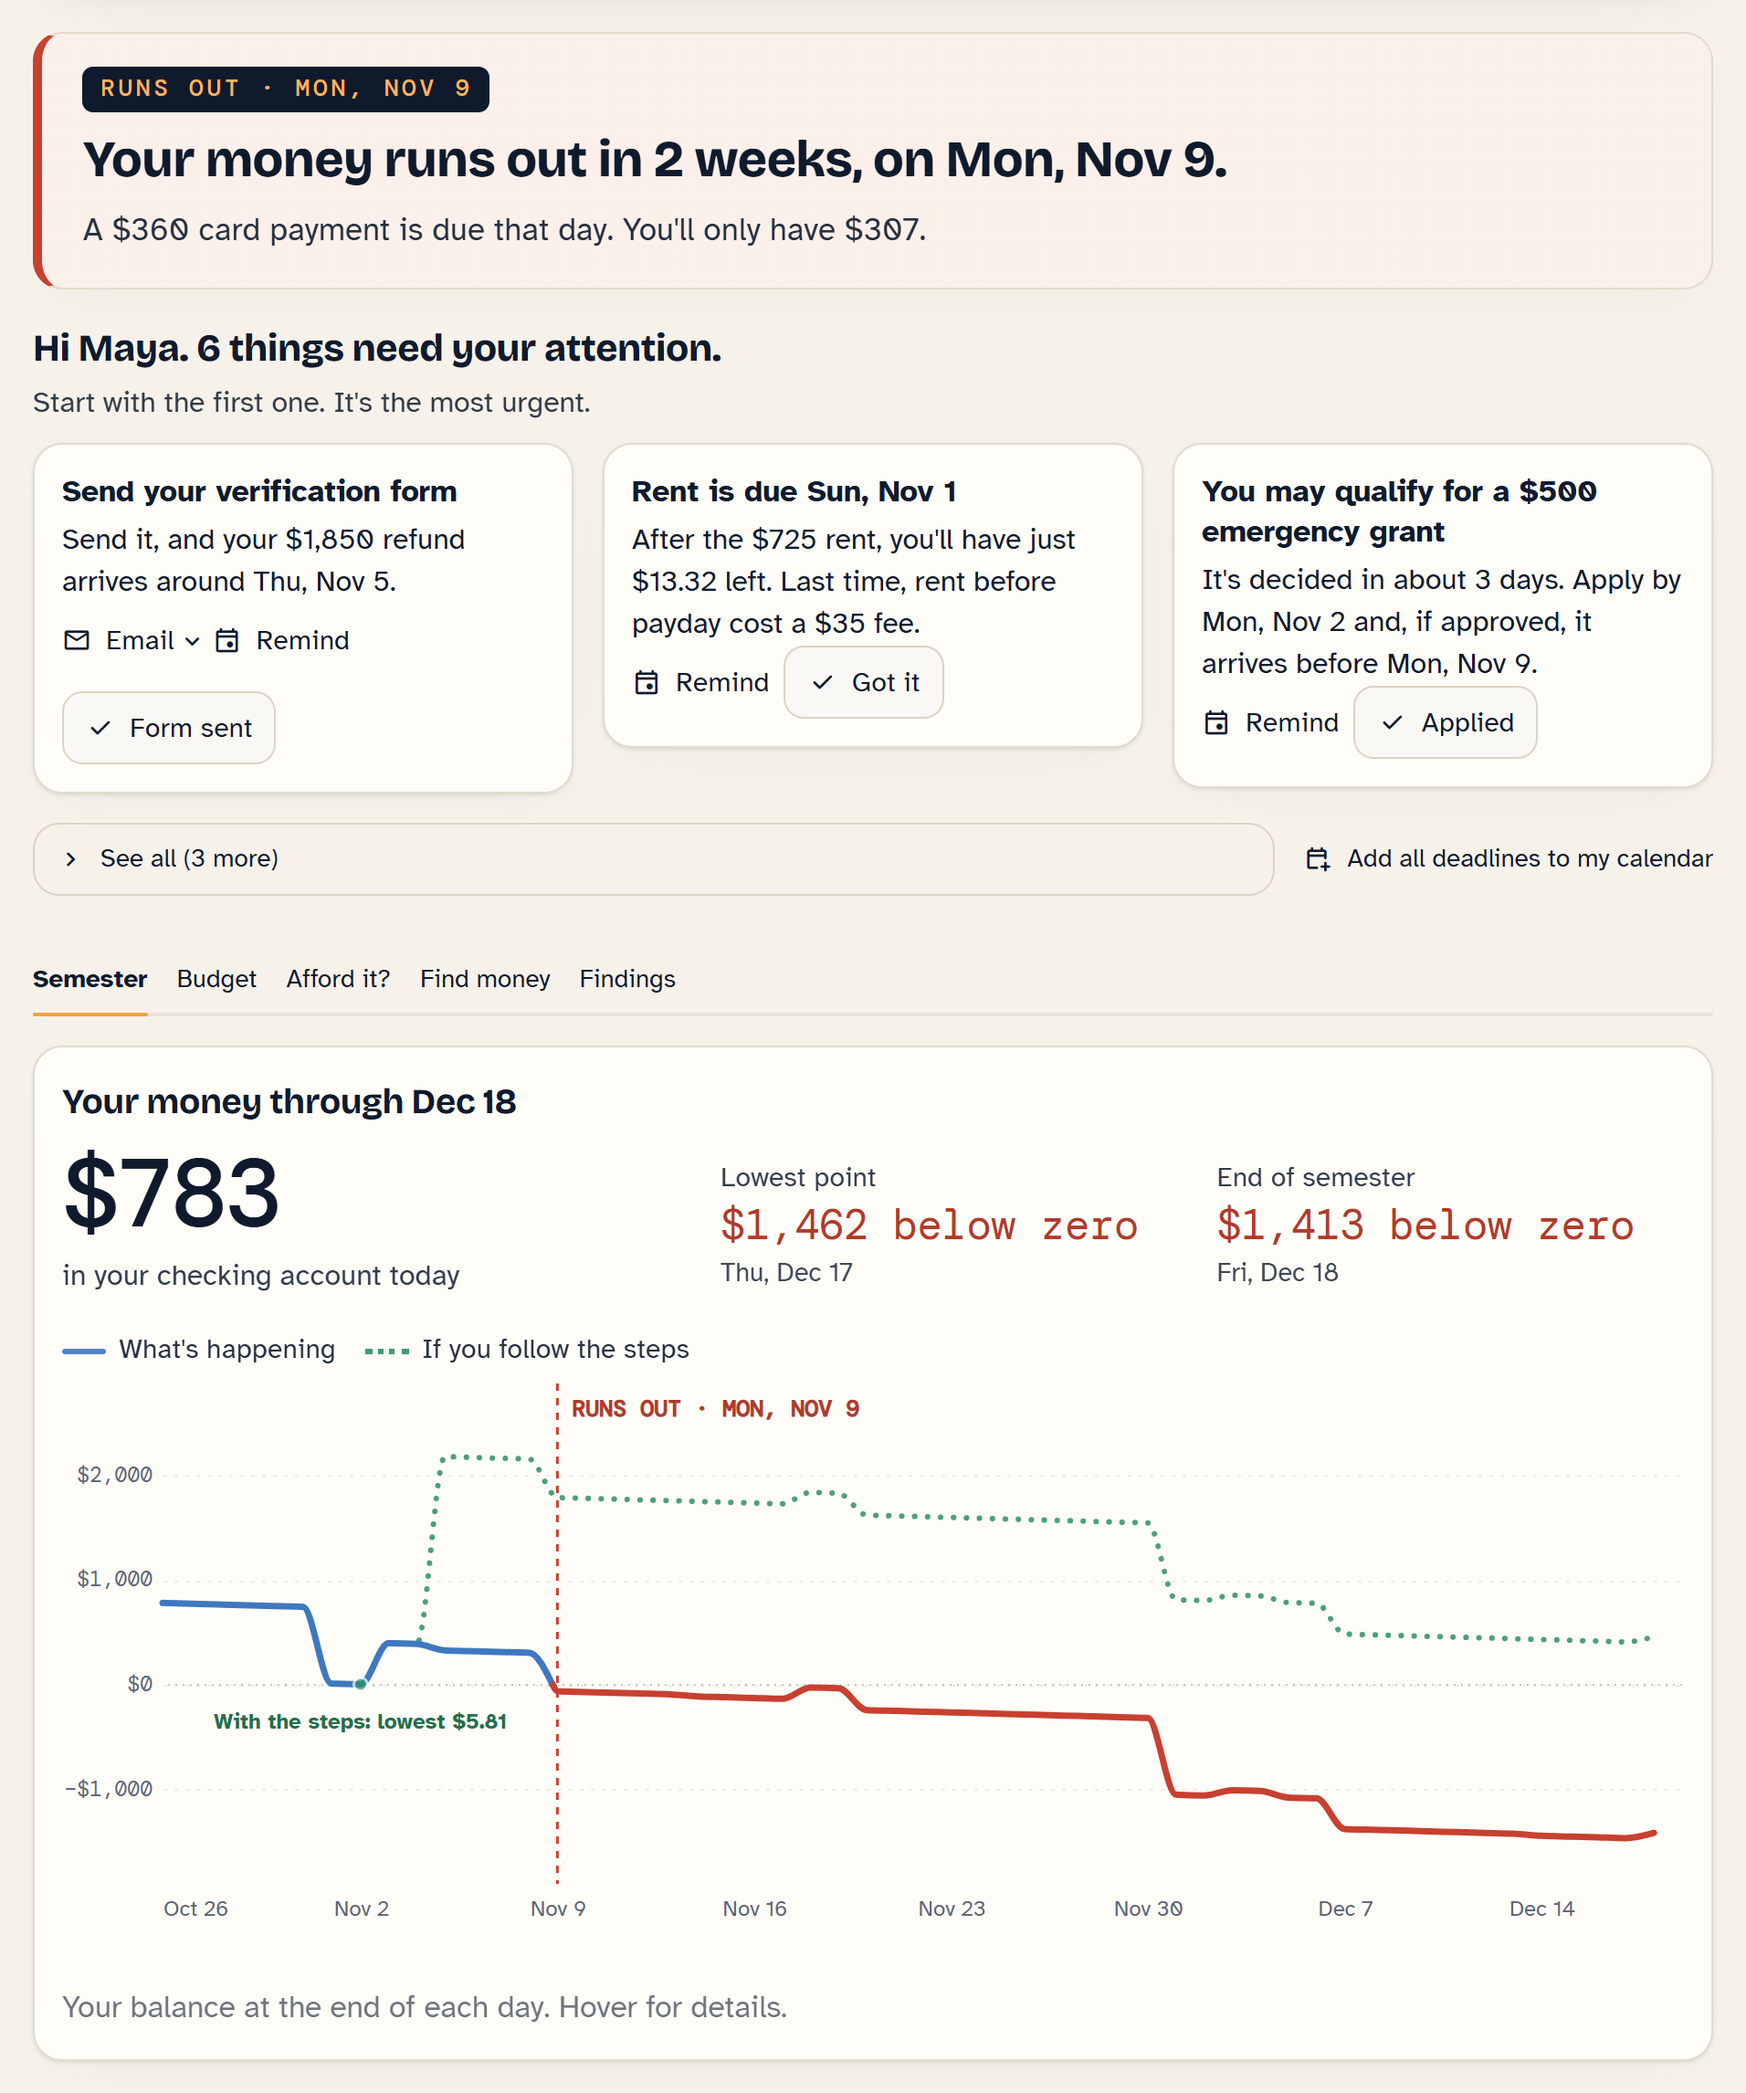
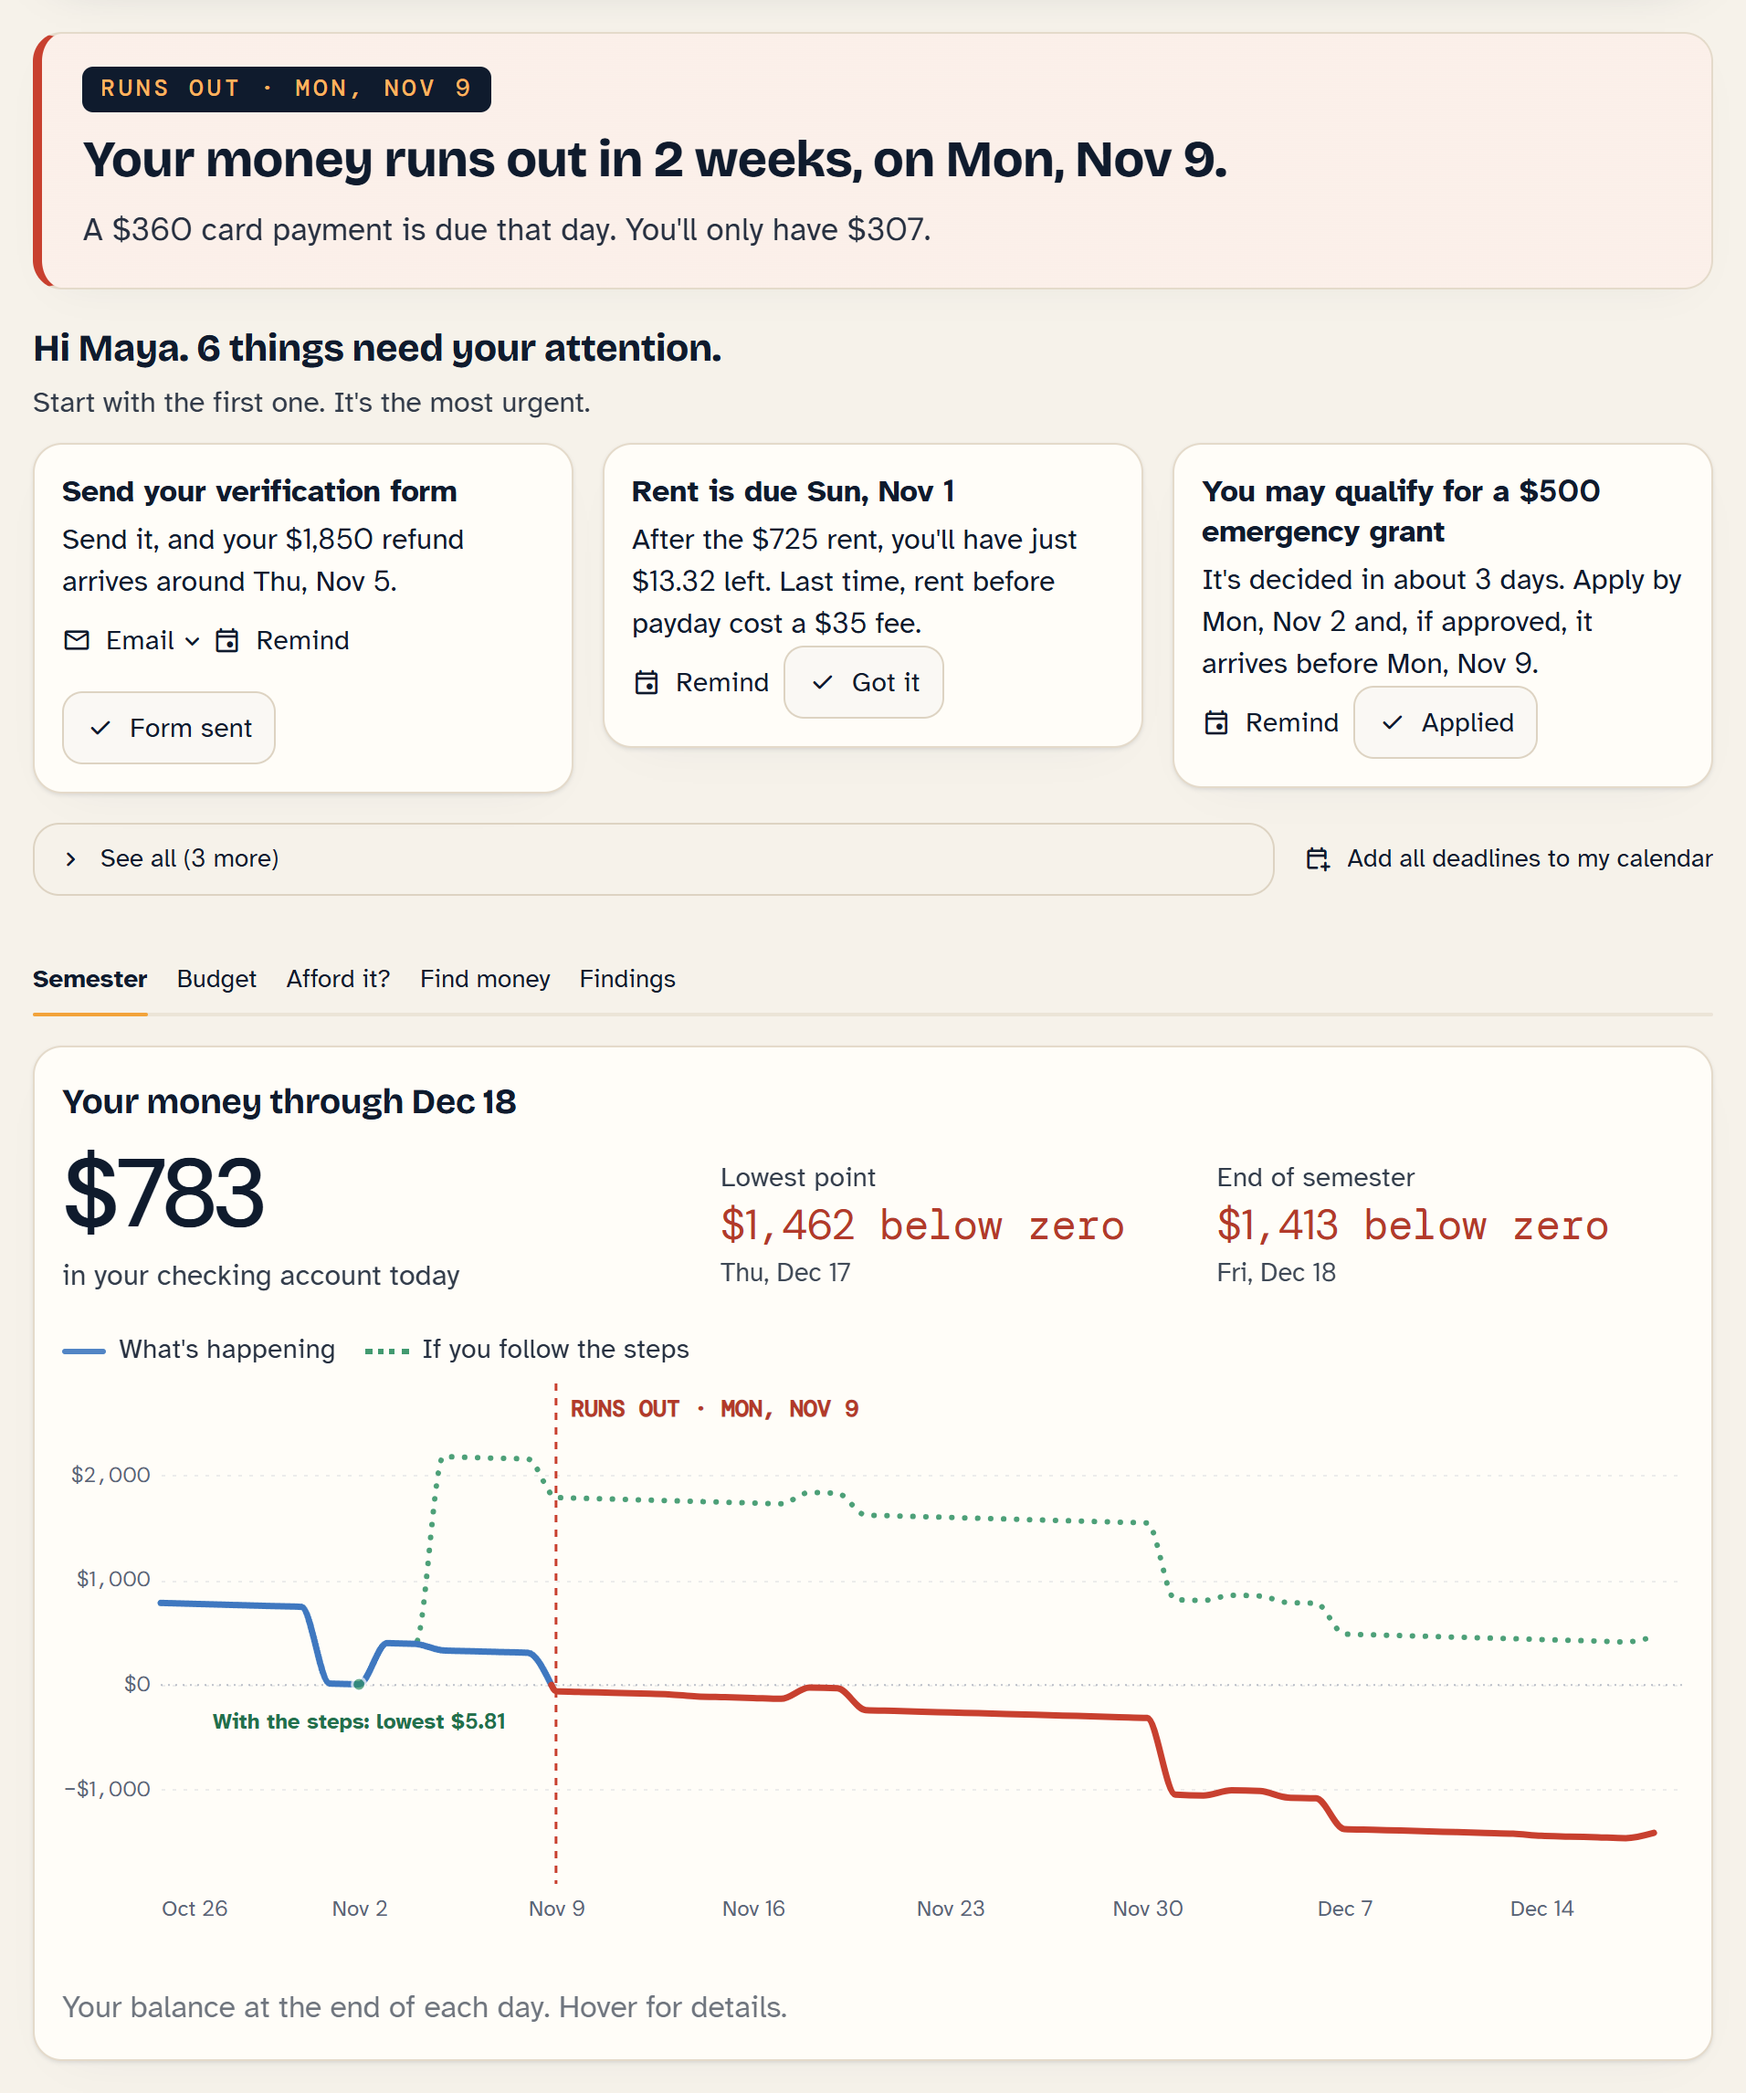
Front-end fixes: the chat panel no longer looks like it contains the page, Streamlit toolbar hidden, My data privacy text, plain zeros
- The 'graph inside the panel' was the page showing through: the dialog overlay was a 25% tan wash and the panel had the page's own background, so the graph under the panel's bottom edge looked like part of it (the panel's element tree only ever held the chat; now a test checks that). The overlay dims and blurs the page; the panel is a solid card with a border and shadow, at least 76vh tall on laptops
- client.toolbarMode = minimal: no Deploy button, no top-right menu
- My data: questions go through Meterless Nightshift on this computer (which keeps a local log); nothing from the file is committed or uploaded
- Atkinson Hyperlegible and DM Mono draw a slashed zero with no OpenType switch; theme fontFaces now build 'Runway Body' (Atkinson letters + DM Sans digits) and 'Runway Mono' (DM Mono letters + DM Sans digits), each digit face with the same weight and style as its letter face; the chart uses them too
- Suggested-question chips left-aligned when they wrap; deck screenshots re-taken

diff --git a/tests/test_layout.py b/tests/test_layout.py
@@ -89,3 +89,55 @@ def test_forecast_signature_sees_what_ifs_done_items_and_budget():
     assert ask.forecast_sig() != base
     st.session_state["done"] = {"refund": {}}
     assert ask.forecast_sig() != base
+
+
+def test_the_panel_holds_only_the_chat_never_page_content(page):
+    """The chat panel's own element tree: chat elements only. (The bug report showed the graph under "What Runway
+    remembers": a see-through overlay made the page under the panel's edge look like part of it; style.py now dims
+    and blurs the page and gives the panel a solid card.)"""
+    page.button(key="chat_fab_btn").click()
+    page.run()
+
+    def dialogs(n):
+        for c in getattr(n, "children", {}).values():
+            if getattr(c, "type", None) == "dialog":
+                yield c
+            yield from dialogs(c)
+
+    def kinds(n, out):
+        for c in getattr(n, "children", {}).values():
+            out.add((type(c).__name__, getattr(c, "key", None)))
+            kinds(c, out)
+        return out
+
+    (panel,) = list(dialogs(page._tree))
+    inside = kinds(panel, set())
+    names = {k for k, _ in inside}
+    assert not names & {"Tab", "VegaLiteChart", "ArrowVegaLiteChart", "UnknownElement"}, names
+    assert not any(key in ("balance_card", "balance_chart", "notices", "checkin") for _, key in inside)
+    assert any(key == "ask_input" for _, key in inside)
+    from ui import style
+    css = style.css("light")
+    assert '[data-testid="stDialog"] {background: rgba(9,16,28,.62)' in css and "backdrop-filter: blur" in css
+    assert 'div:has(> [role="dialog"]) {background: var(--rw-card)' in css
+
+
+def test_demo_config_hides_the_toolbar_and_numbers_use_a_plain_zero():
+    import tomllib
+    from pathlib import Path
+    cfg = tomllib.loads((Path(__file__).resolve().parent.parent / ".streamlit" / "config.toml").read_text(encoding="utf-8"))
+    assert cfg["client"]["toolbarMode"] == "minimal"                       # no Deploy button, no top-right menu
+    assert cfg["theme"]["font"].startswith("Runway Body") and cfg["theme"]["codeFont"].startswith("Runway Mono")
+    faces = cfg["theme"]["fontFaces"]
+    for fam in ("Runway Body", "Runway Mono"):
+        letters = [f for f in faces if f["family"] == fam and f["unicodeRange"] != "U+0030-0039"]
+        digits = [f for f in faces if f["family"] == fam and f["unicodeRange"] == "U+0030-0039"]
+        assert letters and all("dmsans" in f["url"] for f in digits)               # digits: DM Sans, a plain zero
+        # every letter face has a digit face with the same weight and style (browsers match weight first)
+        assert {(f["weight"], f["style"]) for f in letters} == {(f["weight"], f["style"]) for f in digits}
+
+
+def test_my_data_privacy_says_nightshift_not_nvidia():
+    from ui import myimport
+    assert "Meterless Nightshift on this computer" in myimport.PRIVACY and "local log" in myimport.PRIVACY
+    assert "committed or uploaded" in myimport.PRIVACY and "go to NVIDIA" not in myimport.PRIVACY

diff --git a/ui/style.py b/ui/style.py
@@ -24,7 +24,8 @@ PALETTE = {
              "bad_bg": "rgba(200,64,47,.14)", "shadow": "rgba(0,0,0,.40)", "axis": "#A4AFC2",
              "band_top": "#0B1525", "band": "#070E19", "band_border": "rgba(243,238,228,.14)"},
 }
-HEADING, BODY, MONO = "'Bricolage Grotesque', sans-serif", "'Atkinson Hyperlegible', sans-serif", "'DM Mono', monospace"
+# Runway Body / Runway Mono (config.toml fontFaces): Atkinson Hyperlegible and DM Mono with DM Sans digits (plain zero)
+HEADING, BODY, MONO = "'Bricolage Grotesque', sans-serif", "'Runway Body', sans-serif", "'Runway Mono', monospace"
 CARDS = ('[class*="st-key-card_"], [class*="st-key-ci_card_"], [class*="st-key-fm_card_"], .st-key-balance_card, '
          '.st-key-shift_planner, .st-key-meal_card')
 HOVERED = ", ".join(s + ":hover" for s in CARDS.split(", "))
@@ -135,7 +136,8 @@ button[data-testid="stBaseButton-primary"], button[data-testid="stBaseButton-pri
   opacity: .9; margin-top: .4rem;}}
 .rw-note {{font-size: .95rem; opacity: .85; margin: .3rem 0 .4rem; max-width: 64ch;}}
 .rw-fn {{font-size: .65em; font-weight: 700; margin-left: .12em; color: var(--rw-link);}}
-[class*="st-key-ask_suggest_"] button p {{font-size: .95rem; white-space: normal; text-align: left;}}
+[class*="st-key-ask_suggest_"] button p {{font-size: .95rem; white-space: normal; text-align: left !important;}}
+[class*="st-key-ask_suggest_"] button > div {{justify-content: flex-start !important;}}
 [class*="st-key-ask_suggest_"] button {{height: auto; min-height: 2.4rem;}}
 
 /* the check-in */
@@ -171,6 +173,15 @@ button[data-testid="stBaseButton-primary"], button[data-testid="stBaseButton-pri
 .rw-pace-on-pace {{opacity: .85;}} .rw-pace-spending-fast, .rw-pace-over {{font-weight: 700;}}
 [class*="st-key-ci_acts_"] button p, [class*="st-key-fm_acts_"] button p, [class*="st-key-bud_refund"] button p,
 [class*="st-key-fm_acts_"] label p {{font-size: .95rem !important;}}
+
+/* the chat panel: a solid card over a dimmed, blurred page (a see-through overlay made the page under the panel's
+   edge look like part of the panel) */
+[data-testid="stDialog"] {{background: rgba(9,16,28,.62) !important; backdrop-filter: blur(3px);}}
+[data-testid="stDialog"] div:has(> [role="dialog"]) {{background: var(--rw-card) !important;
+  border: 1px solid var(--rw-card-border); box-shadow: 0 30px 80px -24px rgba(0,0,0,.6);}}
+@media (min-width: 641px) {{
+  [data-testid="stDialog"] [role="dialog"] {{min-height: min(76vh, 760px);}}
+}}
 
 /* the floating "Ask Runway" button: fixed bottom-left on every tab; the page keeps room below its last element */
 .st-key-chat_fab {{position: fixed; left: 24px; bottom: 24px; z-index: 999990; width: auto !important;}}

diff --git a/ui/myimport.py b/ui/myimport.py
@@ -10,8 +10,9 @@ import importer
 import mydata
 from ui import fmt
 
-PRIVACY = ("Your file stays on this computer (in user_data/). Importing it sends nothing anywhere. When you ask "
-           "Runway a question, only that question and the numbers it needs go to NVIDIA to write the answer.")
+PRIVACY = ("Your file stays on this computer, in user_data/. Nothing from it is committed or uploaded. When you ask "
+           "Runway a question, it goes through Meterless Nightshift on this computer. Nightshift keeps a local log of "
+           "requests. It sends only that question and the numbers it needs to NVIDIA to write the answer.")
 
 
 @st.cache_resource(show_spinner=False)

diff --git a/ui/chart.py b/ui/chart.py
@@ -24,7 +24,7 @@ from ui import fmt
 
 # One palette, shared with style.py's CSS variables (readable on the paper and the night-navy backgrounds).
 LINE, STEPS, RED, ZERO, GRID, LABEL = "#3F78C0", "#2E8F62", "#C8402F", "#8A94A6", "#8A94A6", "#7A8599"
-FONT, MONO = "Atkinson Hyperlegible, sans-serif", "DM Mono, monospace"     # loaded by style.py
+FONT, MONO = "Runway Body, sans-serif", "Runway Mono, monospace"     # config.toml fontFaces (plain-zero digits)
 SHORT = {"rent": "Rent", "card_autopay": "Card payment", "installment": "Tuition payment", "paycheck": "Paycheck",
          "refund": "Refund"}
 
